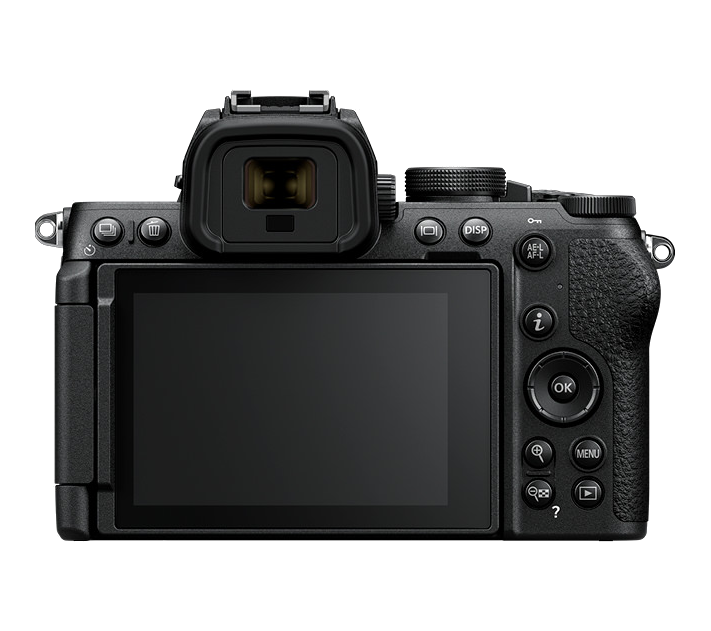
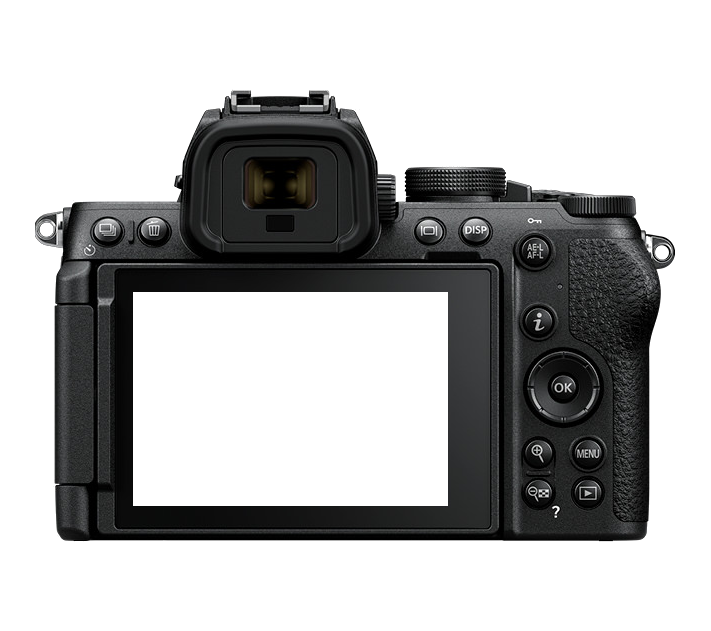
feat: layer sandwich render — photo under body with punched screen window
- body layer drawn on top with a runtime-punched transparent window at
  the screen quad (2px inset, rounded corners); photo pasted beneath at
  the quad expanded 6px, clamped to the body silhouette — bezel masks
  all paste overflow, no more photo-on-bezel spill
- per-body zoom falls out of the quad size via cover-crop (CLI + web)
- sync web/bodies with remote re-exported PNGs; drop zfc black colorway
- re-measure z5iic quad for its new render

Changed region(s): [[0.1857, 0.4517, 0.6498, 0.813]]

diff --git a/web/app.js b/web/app.js
@@ -1,9 +1,10 @@
 /* app.js — see-through-camera, browser port of cli/watermark.py.
  *
  * Pipeline parity with the Python version:
- *   EXIF -> orientation normalize -> cover+blur+darken bg -> body layer
- *   (portrait: rotate visual-CCW, grip up; quad remap) -> screen paste
- *   (cover-crop, square corners) -> two centered text lines -> JPEG.
+ *   EXIF -> orientation normalize -> cover+blur+darken bg -> layer sandwich
+ *   (photo middle layer, body top layer with a transparent window punched
+ *   at the screen quad; portrait: rotate visual-CCW, quad remap) -> two
+ *   centered text lines -> JPEG.
  *
  * Mobile compatibility:
  *   - decode via <img> + object URL (createImageBitmap+options is missing on
@@ -222,22 +223,59 @@ async function render() {
   ctx.fillStyle = `rgba(0,0,0,${1 - BG_DARKEN})`;
   ctx.fillRect(0, 0, cw, ch);
 
-  // 2. body layer; portrait: rotate visual-CCW (grip up), remap quad
+  // 2+3. layer sandwich: photo (middle) UNDER the body (top). The body
+  //      canvas gets a transparent window punched at the screen quad, so
+  //      the bezel masks any paste overflow; the paste rect is the quad
+  //      expanded a few px, clamped to the body's opaque silhouette.
   const bodyImg = body.prof.gray ? grayCanvas(body.png) : body.png;
   let quad = body.quad.map(p => p.slice());
   const bw0 = bodyImg.width, bh0 = bodyImg.height;
   const portrait = ch >= cw;
+
+  // opaque bbox of the body (for clamping the paste expansion)
+  const bb = document.createElement('canvas');
+  bb.width = bw0; bb.height = bh0;
+  const bbg = bb.getContext('2d');
+  bbg.drawImage(bodyImg, 0, 0);
+  const bd = bbg.getImageData(0, 0, bw0, bh0).data;
+  let bx0 = bw0, by0 = bh0, bx1 = 0, by1 = 0;
+  for (let y = 0; y < bh0; y++) {
+    for (let x = 0; x < bw0; x++) {
+      if (bd[(y * bw0 + x) * 4 + 3] > 10) {
+        if (x < bx0) bx0 = x; if (x > bx1) bx1 = x;
+        if (y < by0) by0 = y; if (y > by1) by1 = y;
+      }
+    }
+  }
+  // punch the window: quad inset 2px, rounded like the real glass
+  const xs0 = quad.map(p => p[0]), ys0 = quad.map(p => p[1]);
+  const ql = Math.min(...xs0), qt = Math.min(...ys0);
+  const qr = Math.max(...xs0), qb = Math.max(...ys0);
+  const inset = 2, rad = Math.max(4, Math.round((qr - ql) * 0.03));
+  bbg.globalCompositeOperation = 'destination-out';
+  bbg.beginPath();
+  bbg.roundRect(ql + inset, qt + inset, qr - ql - 2 * inset,
+                qb - qt - 2 * inset, rad);
+  bbg.fill();
+  bbg.globalCompositeOperation = 'source-over';
+  // expanded paste quad, clamped to the silhouette
+  const exp = 6;
+  const el = Math.min(exp, ql - bx0), et = Math.min(exp, qt - by0);
+  const er = Math.min(exp, bx1 - qr), eb = Math.min(exp, by1 - qb);
+  let pquad = [[ql - el, qt - et], [qr + er, qt - et],
+               [qr + er, qb + eb], [ql - el, qb + eb]];
+
   const drawn = document.createElement('canvas');
   const dctx = drawn.getContext('2d');
   if (portrait) {
     drawn.width = bh0; drawn.height = bw0;
     dctx.translate(0, bw0);
     dctx.rotate(-Math.PI / 2);
-    dctx.drawImage(bodyImg, 0, 0);
-    quad = quad.map(([x, y]) => [y, bw0 - x]);
+    dctx.drawImage(bb, 0, 0);
+    pquad = pquad.map(([x, y]) => [y, bw0 - x]);
   } else {
     drawn.width = bw0; drawn.height = bh0;
-    dctx.drawImage(bodyImg, 0, 0);
+    dctx.drawImage(bb, 0, 0);
   }
   const topMargin = Math.round(ch * BODY_TOP_FRAC);
   const textZone = 56 + GAP_LINE + LINE2_SIZE + 30;
@@ -249,11 +287,12 @@ async function render() {
   // always centered: horizontally on the canvas, vertically between the
   // top margin and the caption zone
   const by = topMargin + Math.round((ch - topMargin - textZone - bh) / 2);
-  ctx.drawImage(drawn, bx, by, bw, bh);   // body first: its LCD is opaque
 
-  // 3. screen paste (cover-crop, square corners), scale vs pre-resize width
+  // middle layer: screen paste (cover-crop, square corners — the body's
+  // bezel masks them), scale vs pre-resize width; per-body zoom falls out
+  // of the quad size automatically
   const s = bw / drawn.width;
-  const xs = quad.map(p => p[0]), ys = quad.map(p => p[1]);
+  const xs = pquad.map(p => p[0]), ys = pquad.map(p => p[1]);
   const left = Math.min(...xs) * s + bx, top = Math.min(...ys) * s + by;
   const qw = Math.round((Math.max(...xs) - Math.min(...xs)) * s);
   const qh = Math.round((Math.max(...ys) - Math.min(...ys)) * s);
@@ -270,6 +309,8 @@ async function render() {
     ctx.fillRect(left, top, qw, qh);
   }
   ctx.restore();
+  // top layer: body with the punched window
+  ctx.drawImage(drawn, bx, by, bw, bh);
 
   // 4. caption lines, pinned to the card bottom, auto-shrink on overflow;
   const parts1 = [];

diff --git a/cli/watermark.py b/cli/watermark.py
@@ -143,7 +143,10 @@ def build(photo_path, body_key, out_path, focal_mode='actual', debug=False,
     bg = ImageEnhance.Brightness(bg).enhance(BG_DARKEN)
     canvas.paste(bg, (0, 0))
 
-    # 2. body layer
+    # 2+3. layer sandwich: photo (middle) UNDER the body (top). The body
+    #      gets a transparent window punched at the screen quad at runtime,
+    #      so the bezel naturally masks any paste overflow; the paste rect
+    #      is the quad expanded a few px so no unlit glass ring shows.
     body = Image.open(prof['png']).convert('RGBA')
     if prof.get('gray'):  # e.g. D850 placeholder: low-contrast gray look
         a = body.getchannel('A')
@@ -152,14 +155,31 @@ def build(photo_path, body_key, out_path, focal_mode='actual', debug=False,
         rgb = ImageEnhance.Contrast(rgb).enhance(0.72)
         rgb = ImageEnhance.Brightness(rgb).enhance(0.96)
         body = Image.merge('RGBA', (*rgb.split(), a))
+    qx, qy = zip(*prof['screen_quad'])
+    ql, qt, qr, qb = min(qx), min(qy), max(qx), max(qy)
+    # window: quad inset 2px, corners rounded like the real glass
+    inset = 2
+    rad = max(4, round((qr - ql) * 0.03))
+    alpha = body.getchannel('A')
+    ImageDraw.Draw(alpha).rounded_rectangle(
+        [ql + inset, qt + inset, qr - inset - 1, qb - inset - 1],
+        radius=rad, fill=0)
+    body.putalpha(alpha)
+    # photo rect: quad expanded, clamped to stay inside the body silhouette
+    bbox = alpha.point(lambda v: 255 if v > 10 else 0).getbbox()
+    exp = 6
+    el = min(exp, ql - bbox[0]); et = min(exp, qt - bbox[1])
+    er = min(exp, bbox[2] - 1 - qr); eb = min(exp, bbox[3] - 1 - qb)
+    quad = [[ql - el, qt - et], [qr + er, qt - et],
+            [qr + er, qb + eb], [ql - el, qb + eb]]
     # portrait canvas: stand the body upright too (rotate visual-CCW so the
-    # grip lands at the top — vertical-shooting habit), and rotate the screen
-    # quad into that space: (x, y) -> (y, orig_w - x)
+    # grip lands at the top — vertical-shooting habit), and rotate the
+    # (expanded) paste quad into that space: (x, y) -> (y, orig_w - x)
     if canvas_h >= canvas_w:
         bw0 = body.width
         body = body.transpose(Image.ROTATE_90)
-        prof['screen_quad'] = [[y, bw0 - x] for (x, y) in prof['screen_quad']]
-    orig_w = body.width  # quad coords are in (post-rotation) body pixel space
+        quad = [[y, bw0 - x] for (x, y) in quad]
+    orig_w = body.width
     # fit both axes: 80% width cap, plus height cap reserving the text zone
     top_margin = round(canvas_h * BODY_TOP_FRAC)
     text_zone = 56 + GAP_LINE + LINE2_SIZE + 30
@@ -173,24 +193,24 @@ def build(photo_path, body_key, out_path, focal_mode='actual', debug=False,
     # top margin and the caption zone
     by = top_margin + (canvas_h - top_margin - text_zone - bh) // 2
 
-    canvas.paste(body, (bx, by), body)  # body first: its LCD is opaque
-
-    # 3. screen paste (after body, else the opaque LCD covers it): rect in
-    #    body-pixel space -> canvas space, rounded mask
-    qx, qy = zip(*prof['screen_quad'])
+    # middle layer: screen paste, cover-crop, never stretch. Per-body zoom
+    # falls out of the quad size automatically.
+    px, py = zip(*quad)
     s = bw / orig_w  # render scale; MUST reference pre-resize width
-    left, top = min(qx) * s + bx, min(qy) * s + by
-    right, bottom = max(qx) * s + bx, max(qy) * s + by
+    left, top = min(px) * s + bx, min(py) * s + by
+    right, bottom = max(px) * s + bx, max(py) * s + by
     qw, qh = round(right - left), round(bottom - top)
-    screen = cover(photo, qw, qh)  # cover-crop, never stretch
+    screen = cover(photo, qw, qh)
     screen = screen.crop(((screen.width - qw) // 2, (screen.height - qh) // 2,
                           (screen.width - qw) // 2 + qw,
                           (screen.height - qh) // 2 + qh))
     screen = ImageEnhance.Brightness(screen).enhance(SCREEN_BRIGHTEN)
     mask = Image.new('L', (qw, qh), 0)
     ImageDraw.Draw(mask).rectangle(
-        [0, 0, qw - 1, qh - 1], fill=255)  # square corners, per review
-    canvas.paste(screen, (round(left), round(top)), mask)
+        [0, 0, qw - 1, qh - 1], fill=255)  # square corners: the body's
+    canvas.paste(screen, (round(left), round(top)), mask)  # bezel masks them
+    # top layer: body with the punched window
+    canvas.paste(body, (bx, by), body)
 
     # 4. text lines, centered below body
     focal = (exif['focal'] if focal_mode == 'actual'
